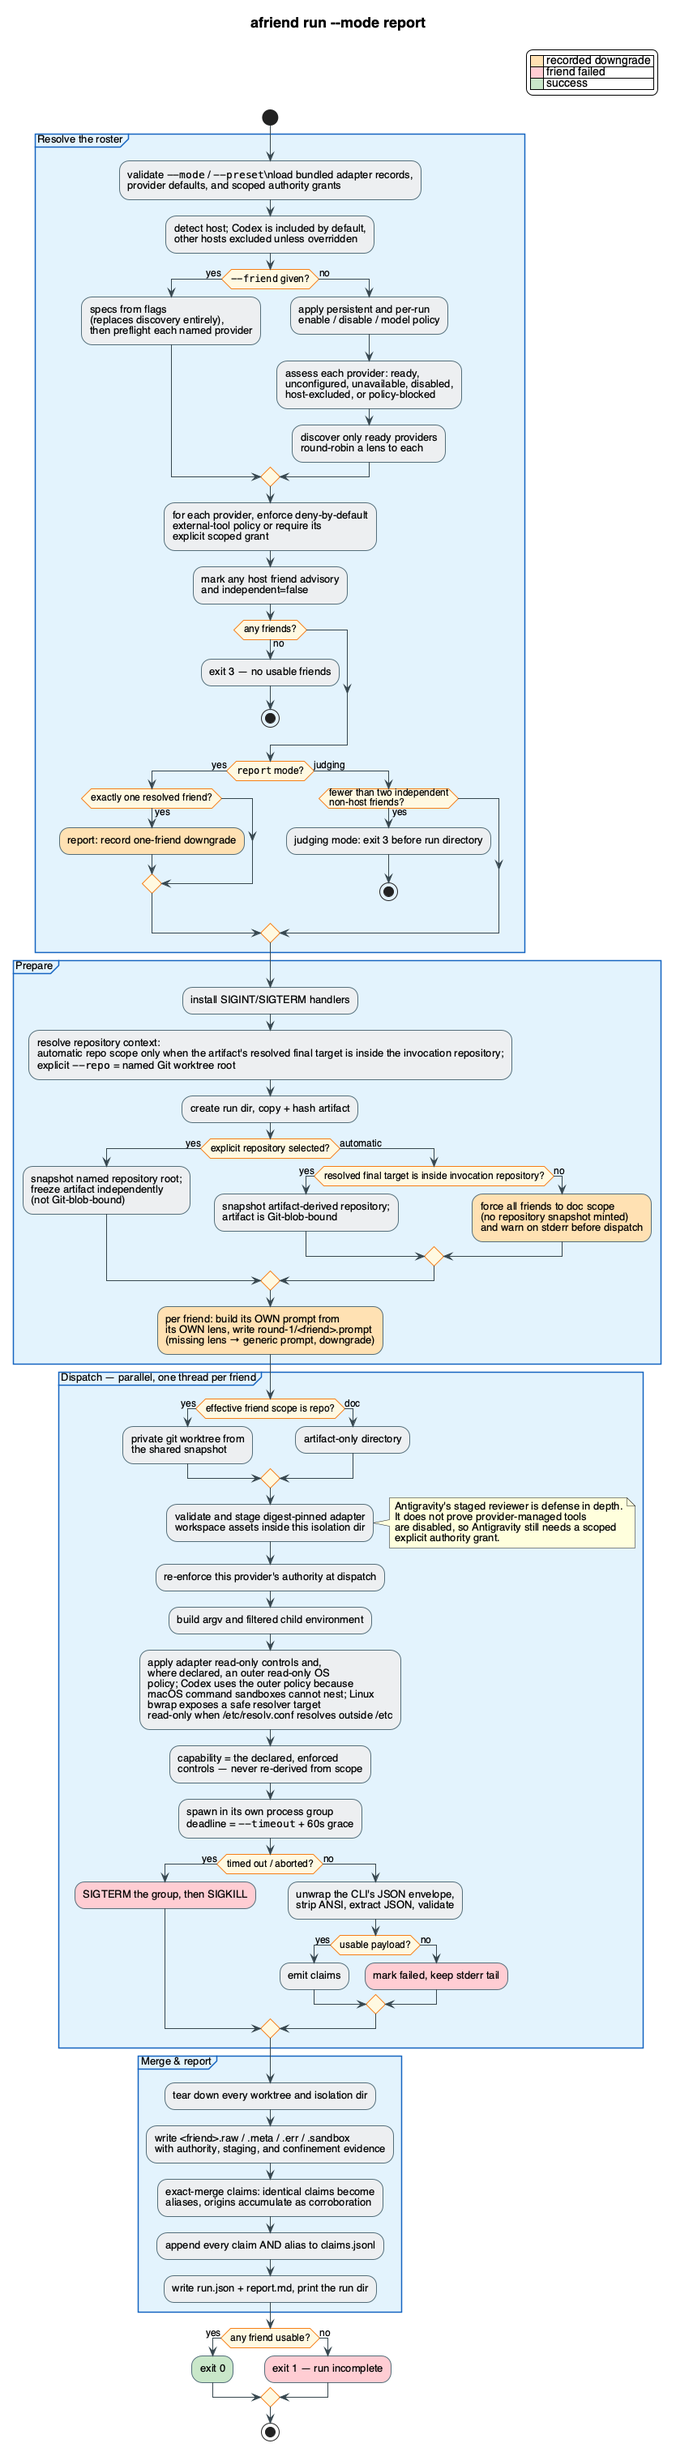
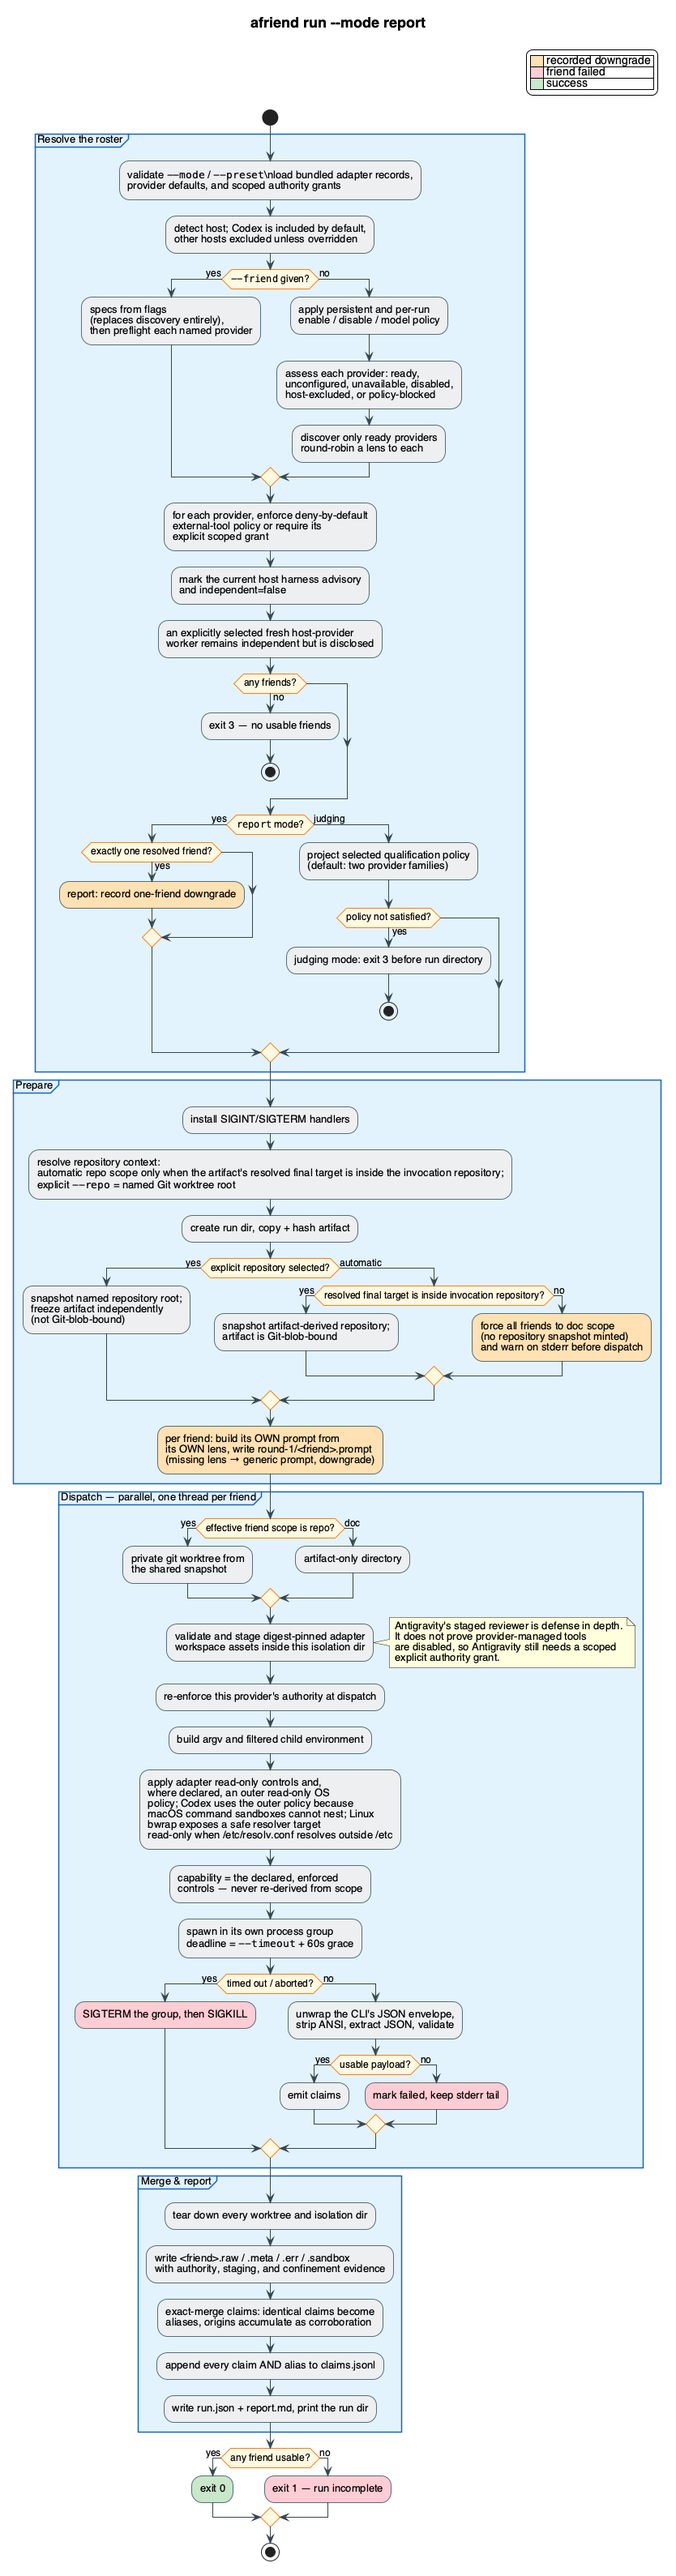
docs: describe qualification policy in guidance and diagrams
Documents the evidence-admission contract added by the preceding two commits.
The run-flow diagram now shows the roster projecting its selected policy
rather than counting independent non-host friends, and distinguishes the
current harness (always advisory) from an explicitly selected fresh
host-provider worker, which stays independent but is disclosed. The routing
diagram carries the default and the two explicit alternatives.

Exit 3 is described by what it now means: a judging mode that could not meet
its selected policy, rather than one that resolved fewer than two independent
non-host friends.

Changed region(s): [[0.0, 0.0, 0.9976, 0.9924]]

diff --git a/tests/test_docs.py b/tests/test_docs.py
@@ -613,7 +613,8 @@ def test_shipped_docs_state_the_one_friend_mode_contract_exactly():
     assert "exactly one resolved friend?" in diagram
     assert "report: record one-friend downgrade" in diagram
     assert "judging mode: exit 3 before run directory" in diagram
-    assert "fewer than two independent\\nnon-host friends" in diagram
+    assert "project selected qualification policy" in diagram
+    assert "policy not satisfied?" in diagram
 
 
 def test_rendered_run_flow_shows_the_one_friend_mode_contract():
@@ -622,7 +623,8 @@ def test_rendered_run_flow_shows_the_one_friend_mode_contract():
     assert "exactly one resolved friend?" in visible
     assert "report: record one-friend downgrade" in visible
     assert "judging mode: exit 3 before run directory" in visible
-    assert "fewer than two independent non-host friends" in visible
+    assert "project selected qualification policy" in visible
+    assert "policy not satisfied?" in visible
 
 
 def test_live_docs_describe_scope_based_isolation_and_exec_environment_filtering():

diff --git a/plugins/afriend/skills/afriend/references/modes.md b/plugins/afriend/skills/afriend/references/modes.md
@@ -22,12 +22,19 @@ but remains advisory: its row is `host-self-review (advisory)` and
 `independent=false`. Its findings remain visible, while its verdicts cannot
 settle claims.
 
-`crossexam`, `gate`, and `loop` require at least two independent non-host
-friends in addition to any host. With fewer, they refuse with exit 3 before a
-run directory is created. The host cannot satisfy admission,
+`crossexam`, `gate`, and `loop` default to two fresh workers from different
+provider families. A task or review profile can explicitly choose
+`--qualification-policy distinct-sessions` for two fresh workers, or
+`distinct-models` for two fresh workers that requested different exact model
+identifiers. The latter records model requests, not proof of the backend model
+that answered. With an unsatisfied policy, judging refuses with exit 3 before
+a run directory is created. The current host harness cannot satisfy admission,
 `--require-friends` participation, judging quorum, gate clearance, or loop
-convergence. This preflight rule prevents an advisory or single-reviewer
-judging run from leaving artifacts that look resumable or authoritative.
+convergence. A separately launched host-provider worker can be made a fresh
+worker only with explicit `--fresh-host-worker`, and its host-family
+correlation remains disclosed. This preflight rule prevents an advisory or
+single-reviewer judging run from leaving artifacts that look resumable or
+authoritative.
 
 ## Cross-examination
 
@@ -496,7 +503,7 @@ every command in this build:
 | `0` | success | a run that reached terminal states with nothing blocked; `afriend doctor` when at least one provider is ready |
 | `1` | gate blocked, or run incomplete | every dispatched friend failed; a `crossexam` that left claims undecided or lost a required friend mid-round; or a `gate` with claims still needing a resolution |
 | `2` | usage/config error | a missing artifact, a malformed `--friend` value, an unknown `cli` in `--friend`, an invalid model in a `cli:lens:model` value, `--max-rounds 1` with a judging mode, a `--resume` naming a run that does not exist or did not halt for the orchestrator, an existing `--out` directory, or an `afriend resolve` naming no location / an unknown claim / a `fixed` without verifiably changed evidence |
-| `3` | no usable friends for the requested mode | `afriend run` when discovery finds nothing usable, or when `crossexam`, `gate`, or `loop` resolves fewer than two independent non-host friends; `afriend doctor` when no provider is ready |
+| `3` | no usable friends for the requested mode | `afriend run` when discovery finds nothing usable, or when `crossexam`, `gate`, or `loop` cannot meet the selected qualification policy; `afriend doctor` when no provider is ready |
 | `10` | needs orchestrator | `--merge orchestrator` halting for merge adjudication; resume with `afriend run --resume` |
 | `11` | ceiling hit | a judging mode hitting `--max-calls`, `--max-rounds` budget, `--max-wall-clock`, or `--max-loop-iterations` |
 | `12` | below quorum | `--require-friends N` set, and fewer than `N` friends produced a usable answer this run |

diff --git a/src/afriend/assets/entrypoints/afriend/references/modes.md b/src/afriend/assets/entrypoints/afriend/references/modes.md
@@ -22,12 +22,19 @@ but remains advisory: its row is `host-self-review (advisory)` and
 `independent=false`. Its findings remain visible, while its verdicts cannot
 settle claims.
 
-`crossexam`, `gate`, and `loop` require at least two independent non-host
-friends in addition to any host. With fewer, they refuse with exit 3 before a
-run directory is created. The host cannot satisfy admission,
+`crossexam`, `gate`, and `loop` default to two fresh workers from different
+provider families. A task or review profile can explicitly choose
+`--qualification-policy distinct-sessions` for two fresh workers, or
+`distinct-models` for two fresh workers that requested different exact model
+identifiers. The latter records model requests, not proof of the backend model
+that answered. With an unsatisfied policy, judging refuses with exit 3 before
+a run directory is created. The current host harness cannot satisfy admission,
 `--require-friends` participation, judging quorum, gate clearance, or loop
-convergence. This preflight rule prevents an advisory or single-reviewer
-judging run from leaving artifacts that look resumable or authoritative.
+convergence. A separately launched host-provider worker can be made a fresh
+worker only with explicit `--fresh-host-worker`, and its host-family
+correlation remains disclosed. This preflight rule prevents an advisory or
+single-reviewer judging run from leaving artifacts that look resumable or
+authoritative.
 
 ## Cross-examination
 
@@ -496,7 +503,7 @@ every command in this build:
 | `0` | success | a run that reached terminal states with nothing blocked; `afriend doctor` when at least one provider is ready |
 | `1` | gate blocked, or run incomplete | every dispatched friend failed; a `crossexam` that left claims undecided or lost a required friend mid-round; or a `gate` with claims still needing a resolution |
 | `2` | usage/config error | a missing artifact, a malformed `--friend` value, an unknown `cli` in `--friend`, an invalid model in a `cli:lens:model` value, `--max-rounds 1` with a judging mode, a `--resume` naming a run that does not exist or did not halt for the orchestrator, an existing `--out` directory, or an `afriend resolve` naming no location / an unknown claim / a `fixed` without verifiably changed evidence |
-| `3` | no usable friends for the requested mode | `afriend run` when discovery finds nothing usable, or when `crossexam`, `gate`, or `loop` resolves fewer than two independent non-host friends; `afriend doctor` when no provider is ready |
+| `3` | no usable friends for the requested mode | `afriend run` when discovery finds nothing usable, or when `crossexam`, `gate`, or `loop` cannot meet the selected qualification policy; `afriend doctor` when no provider is ready |
 | `10` | needs orchestrator | `--merge orchestrator` halting for merge adjudication; resume with `afriend run --resume` |
 | `11` | ceiling hit | a judging mode hitting `--max-calls`, `--max-rounds` budget, `--max-wall-clock`, or `--max-loop-iterations` |
 | `12` | below quorum | `--require-friends N` set, and fewer than `N` friends produced a usable answer this run |

diff --git a/plugins/afriend/skills/afriend/SKILL.md b/plugins/afriend/skills/afriend/SKILL.md
@@ -224,11 +224,14 @@ directory path to stdout; `--json` prints the saved run metadata instead. Read
 The host is the orchestrator. In Codex, Codex remains the orchestrator and is
 included as a friend by default. Its report row is labeled
 `host-self-review (advisory)` with `independent=false`. It may contribute
-findings and advisory verdicts, but cannot satisfy the two-independent-friend
+findings and advisory verdicts, but cannot satisfy the qualifying-worker
 admission rule, `--require-friends` participation, judging quorum, gate
-clearance, or loop convergence. Judging modes therefore need two independent
-non-host friends in addition to any host; `report` may run host-only as a
-recorded downgrade.
+clearance, or loop convergence. Judging modes default to two fresh workers
+from different provider families; `report` may run host-only as a recorded
+downgrade. A task or review profile may explicitly choose
+`distinct-sessions` (two fresh workers) or `distinct-models` (two fresh
+workers with different exact requested models). Neither alternative proves a
+provider's backend model identity.
 
 When a judging roster has only one qualifying worker, say so before dispatch
 and offer only feasible choices: start another same-provider worker under a

diff --git a/src/afriend/assets/entrypoints/afriend/SKILL.md b/src/afriend/assets/entrypoints/afriend/SKILL.md
@@ -224,11 +224,14 @@ directory path to stdout; `--json` prints the saved run metadata instead. Read
 The host is the orchestrator. In Codex, Codex remains the orchestrator and is
 included as a friend by default. Its report row is labeled
 `host-self-review (advisory)` with `independent=false`. It may contribute
-findings and advisory verdicts, but cannot satisfy the two-independent-friend
+findings and advisory verdicts, but cannot satisfy the qualifying-worker
 admission rule, `--require-friends` participation, judging quorum, gate
-clearance, or loop convergence. Judging modes therefore need two independent
-non-host friends in addition to any host; `report` may run host-only as a
-recorded downgrade.
+clearance, or loop convergence. Judging modes default to two fresh workers
+from different provider families; `report` may run host-only as a recorded
+downgrade. A task or review profile may explicitly choose
+`distinct-sessions` (two fresh workers) or `distinct-models` (two fresh
+workers with different exact requested models). Neither alternative proves a
+provider's backend model identity.
 
 When a judging roster has only one qualifying worker, say so before dispatch
 and offer only feasible choices: start another same-provider worker under a

diff --git a/README.md b/README.md
@@ -584,7 +584,7 @@ provider configuration.
 | `0` | the run reached terminal states with nothing blocked |
 | `1` | a `gate` still has claims needing a resolution, or every dispatched friend failed |
 | `2` | usage error — bad flag, unknown CLI, missing artifact |
-| `3` | no usable friends found, or a judging mode resolved fewer than two independent non-host friends; refused before a run directory |
+| `3` | no usable friends found, or a judging mode could not meet its selected qualification policy; refused before a run directory |
 | `10` | `--merge orchestrator` is waiting for you to adjudicate merges |
 | `11` | a ceiling was hit — including natural `--max-loop-iterations` exhaustion without convergence; the run was truncated, not decided |
 | `12` | `--require-friends N` was set and fewer than `N` friends answered |
